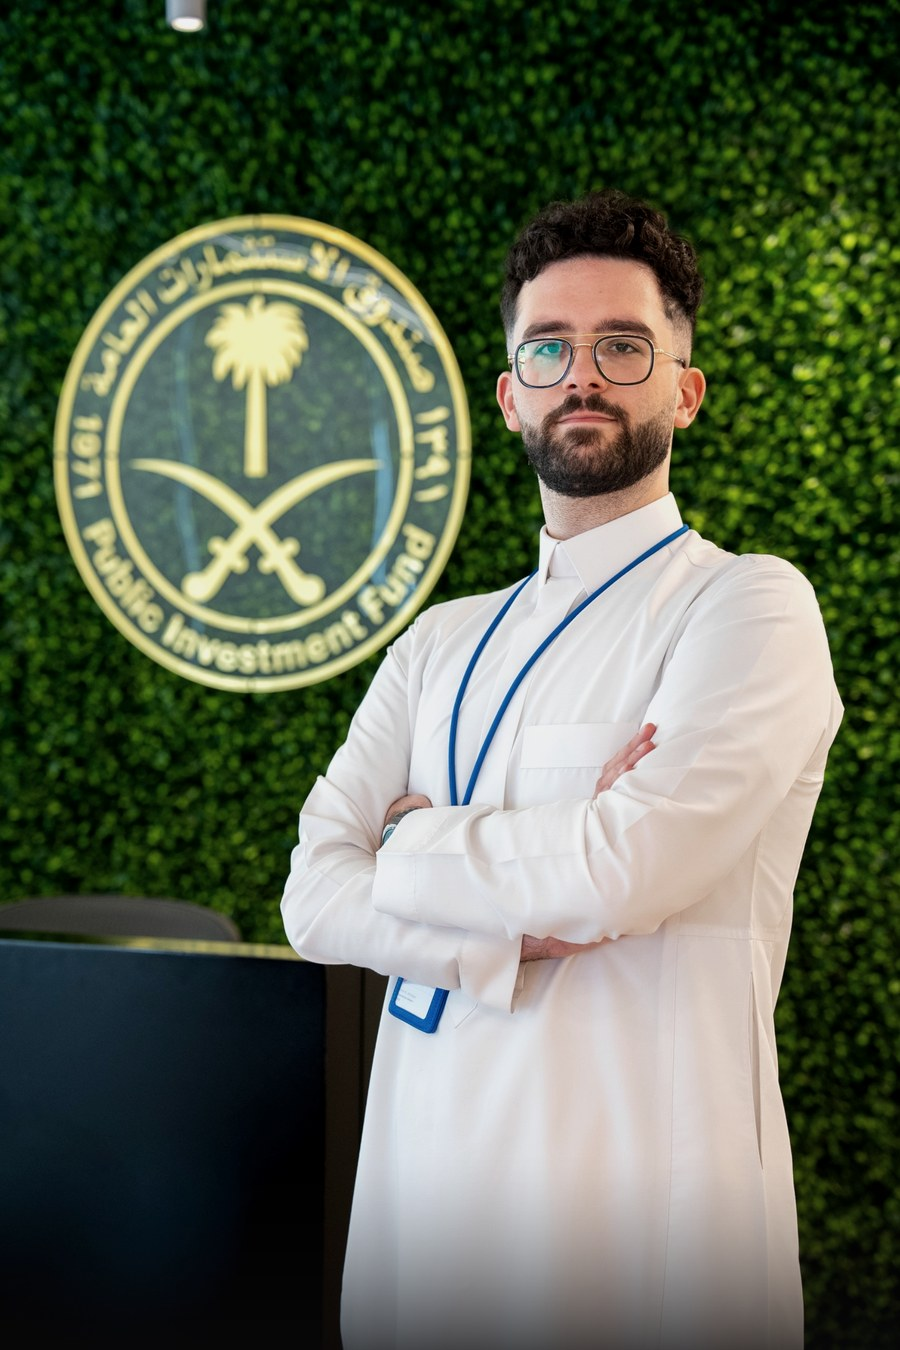
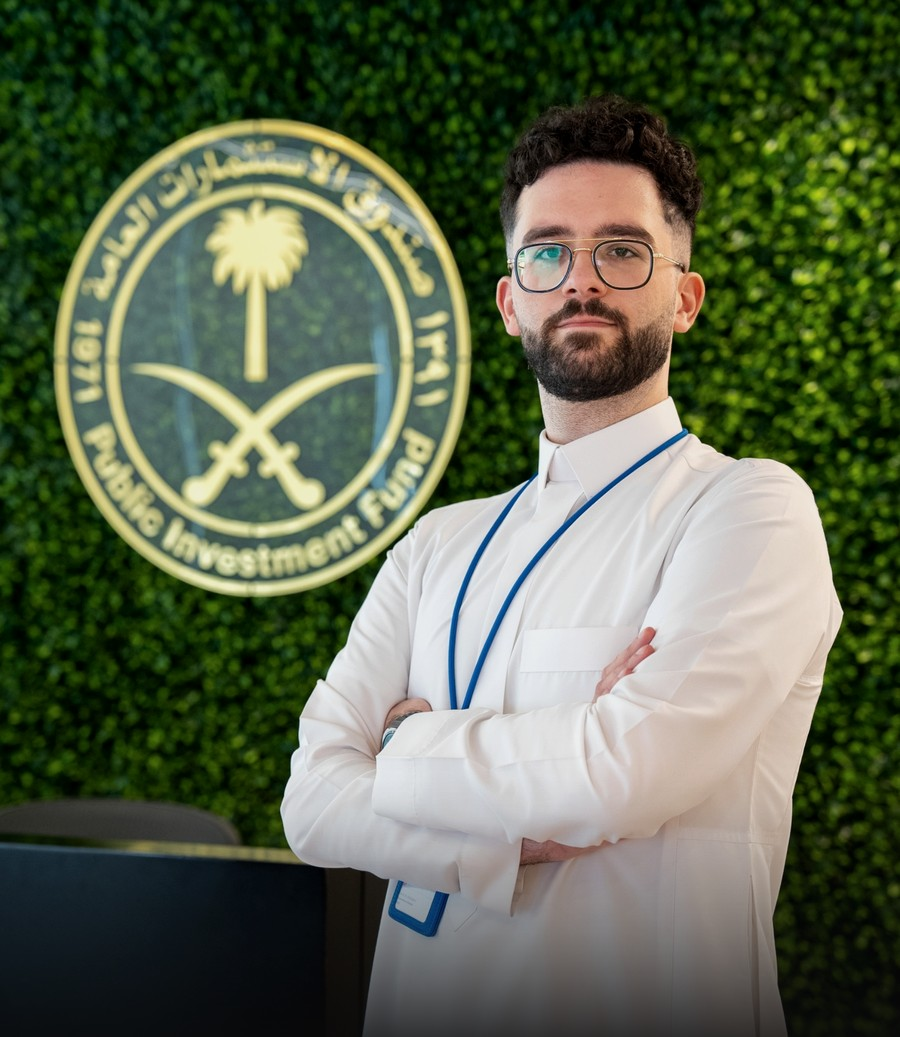
fix: correct profile photo crop to show full face
- Reprocessed image: crop starts at y=180 to capture face from top
- Removed aggressive portrait ratio crop that was cutting the head
- Adjusted CSS object-position to center 8% (anchors to upper portion)
- Increased container height to 620px for better photo display

diff --git a/index.html b/index.html
@@ -138,10 +138,10 @@
   footer{padding:3rem 4rem;display:flex;justify-content:space-between;align-items:center;border-top:1px solid var(--border-dim);}
   .footer-name{font-family:'Cormorant Garamond',serif;font-size:20px;color:var(--text-dim);font-weight:300;}
   .footer-copy{font-size:12px;color:var(--text-dim);letter-spacing:0.05em;}
-  .about-visual { position: relative; height: 560px; }
+  .about-visual { position: relative; height: 620px; }
   .profile-photo-wrap { position: relative; height: 100%; width: 100%; }
   .profile-photo {
-    width: 100%; height: 100%; object-fit: cover; object-position: center top;
+    width: 100%; height: 100%; object-fit: cover; object-position: center 8%;
     display: block;
     filter: saturate(0.85) brightness(0.93) contrast(1.06);
     transition: filter 0.5s;
